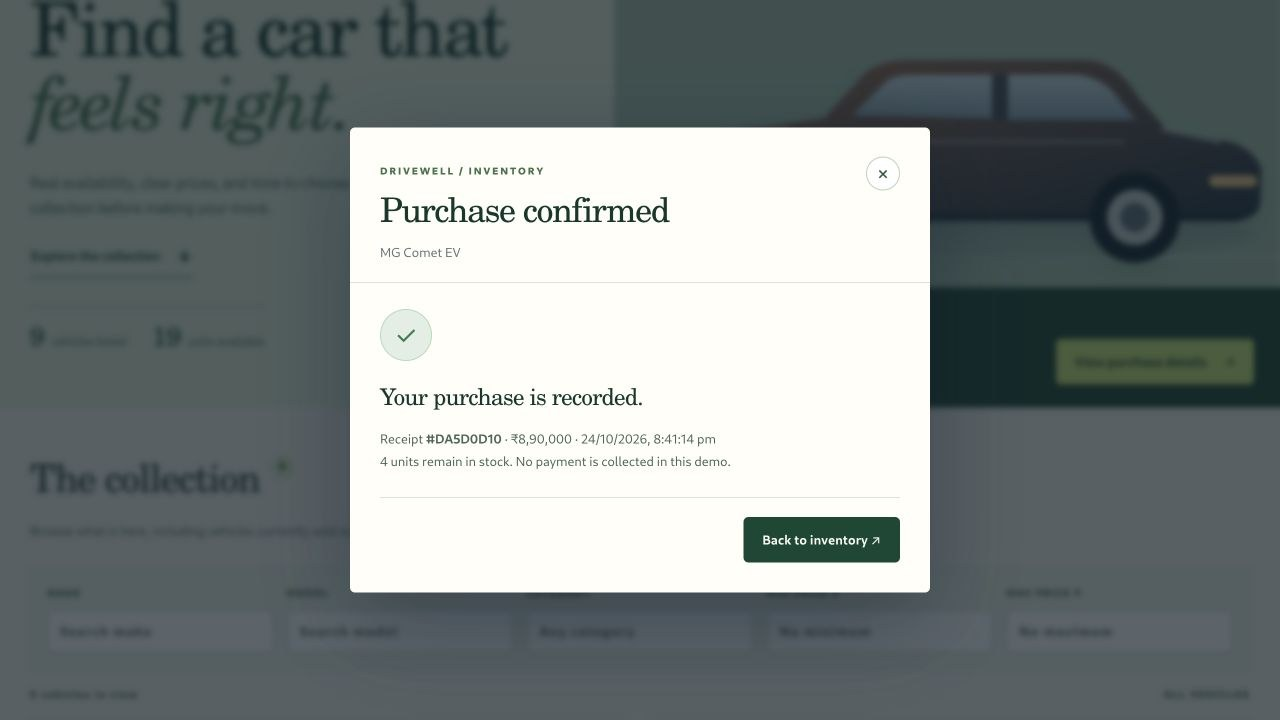
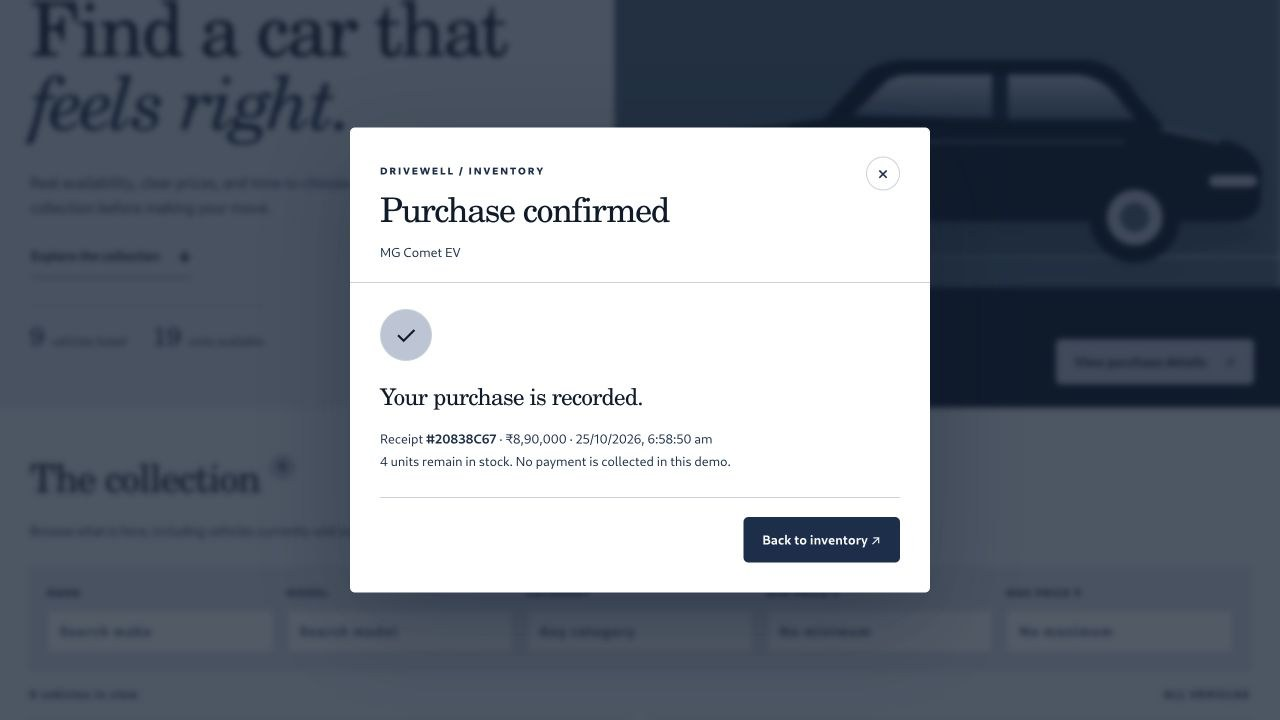
feat(ui): apply midnight blue palette and edge-aligned header
Move the Drivewell mark and account controls to opposite edges.
Apply the supplied four-color palette across both roles and dialogs.
Refresh browser screenshots and the design record.

diff --git a/src/palette.css b/src/palette.css
@@ -1,0 +1,127 @@
+/* The reference palette: Midnight #1C2E4A, Dusty #52677D,
+   Ivory #BDC4D4, and Deep Navy #0F1A2B. White only lifts reading surfaces. */
+:root {
+  --midnight-blue: #1c2e4a;
+  --dusty-blue: #52677d;
+  --ivory: #bdc4d4;
+  --deep-navy: #0f1a2b;
+  --paper: color-mix(in srgb, var(--ivory) 27%, white);
+  --soft-blue: color-mix(in srgb, var(--ivory) 48%, white);
+  --line: color-mix(in srgb, var(--dusty-blue) 30%, white);
+  --ink: var(--deep-navy);
+  --muted: var(--midnight-blue);
+  --white: #fff;
+  --orange: var(--ivory);
+  color: var(--ink);
+  background: var(--paper);
+}
+
+::selection { background: var(--ivory); color: var(--deep-navy); }
+.app-shell { background: var(--paper); }
+.header-inner { max-width: none; width: 100%; padding-inline: clamp(18px, 2.5vw, 40px); }
+.site-header, .site-footer { background: var(--deep-navy); color: white; }
+.site-header .brand, .site-header .brand-period { color: white; }
+.nav-active, .logout-button, .user-text small, .site-footer > span, .site-footer small { color: var(--ivory); }
+.nav-active:after { background: var(--ivory); }
+.nav-divider { border-color: var(--dusty-blue); }
+.user-avatar { background: var(--ivory); color: var(--deep-navy); }
+.logout-button:hover { color: white; }
+
+.button-primary { background: var(--midnight-blue); color: white; }
+.button-primary:not(:disabled):hover { background: var(--deep-navy); }
+.button-outline { border-color: var(--dusty-blue); color: var(--deep-navy); }
+.button-outline:hover { border-color: var(--midnight-blue); background: var(--soft-blue); }
+.button-quiet { background: var(--soft-blue); color: var(--deep-navy); }
+.button-danger { background: var(--deep-navy); color: white; }
+.button-danger:hover { background: var(--midnight-blue); }
+.button:focus-visible, a:focus-visible, input:focus-visible, .row-text-action:focus-visible,
+.logout-button:focus-visible, .attention-item button:focus-visible {
+  outline: 3px solid var(--dusty-blue);
+  outline-offset: 3px;
+}
+input { background: white; color: var(--deep-navy); border-color: var(--line); }
+input::placeholder { color: var(--dusty-blue); }
+input:focus { border-color: var(--dusty-blue); box-shadow: 0 0 0 3px color-mix(in srgb, var(--dusty-blue) 30%, transparent); }
+label, .muted, .form-hint { color: var(--midnight-blue); }
+.eyebrow, .clear-button { color: var(--midnight-blue); }
+.form-error { color: var(--deep-navy); background: var(--soft-blue); border-color: var(--dusty-blue); border-left-width: 4px; }
+.notice { color: var(--deep-navy); background: var(--soft-blue); border-color: var(--line); }
+
+.auth-shell, .auth-story { background: var(--ivory); color: var(--deep-navy); }
+.auth-story:before { color: var(--dusty-blue); opacity: .17; }
+.auth-story .brand-light, .auth-story .brand-period, .auth-story .accent-dot { color: var(--deep-navy); }
+.auth-story-content p, .auth-story-footer { color: var(--midnight-blue); }
+.auth-panel { background: var(--deep-navy); color: white; }
+.auth-panel h2, .auth-panel .muted, .auth-form label { color: white; }
+.auth-tabs, .auth-footnote { border-color: var(--dusty-blue); }
+.auth-tabs button, .auth-footnote { color: var(--ivory); }
+.auth-tabs button.active { color: white; }
+.auth-tabs button.active:after { background: var(--ivory); }
+.auth-form input { background: white; }
+.auth-submit { background: var(--ivory); color: var(--deep-navy); }
+.auth-submit:not(:disabled):hover { background: white; }
+
+.workspace-hero { background: var(--midnight-blue); color: white; }
+.workspace-copy p { color: var(--ivory); }
+.workspace-copy .hero-link { color: white; border-color: var(--ivory); }
+.workspace-scoreboard { background: var(--ivory); color: var(--deep-navy); }
+.scoreboard-live i { background: var(--midnight-blue); }
+.workspace-scoreboard > p, .workspace-scoreboard dt { color: var(--midnight-blue); }
+.workspace-scoreboard dl > div { border-color: var(--dusty-blue); }
+
+.showroom-copy { background: var(--soft-blue); color: var(--deep-navy); }
+.showroom-copy h1 em, .showroom-copy p, .showroom-facts, .showroom-facts strong { color: var(--midnight-blue); }
+.showroom-copy .hero-link { color: var(--deep-navy); border-color: var(--dusty-blue); }
+.showroom-facts { border-color: var(--ivory); }
+.showroom-feature { background: var(--deep-navy); color: white; }
+.feature-art .vehicle-art { background: var(--dusty-blue); }
+.feature-bottom > div > span, .feature-bottom strong, .feature-empty p { color: var(--ivory); }
+.feature-bottom .button { background: var(--ivory); color: var(--deep-navy); }
+.feature-bottom .button:hover { background: white; }
+
+.inventory-heading h2, .attention-intro h2, .empty-state h3 { color: var(--deep-navy); }
+.inventory-heading p, .filters label, .result-line, .empty-state p { color: var(--midnight-blue); }
+.heading-count { background: var(--ivory); color: var(--deep-navy); }
+.filters { background: var(--soft-blue); border-color: var(--line); }
+.empty-state { background: white; border-color: var(--line); }
+.attention-section { background: var(--ivory); border-color: var(--line); }
+.attention-intro p, .attention-item small, .attention-item button { color: var(--midnight-blue); }
+.attention-list, .attention-item + .attention-item { border-color: var(--dusty-blue); }
+.attention-quantity { background: var(--midnight-blue); color: white; }
+
+.inventory-table { background: white; border-color: var(--midnight-blue); }
+.inventory-table-head { background: var(--soft-blue); color: var(--midnight-blue); }
+.inventory-row { border-color: var(--line); }
+.inventory-row:hover { background: var(--soft-blue); }
+.row-monogram { background: var(--ivory); color: var(--deep-navy); }
+.inventory-row-name small, .inventory-row-category, .inventory-row-stock,
+.inventory-row-stock.is-low, .inventory-row-stock.is-empty, .inventory-row-price,
+.row-text-action, .row-delete { color: var(--midnight-blue); }
+
+.buyer-shell .vehicle-card { background: white; border-color: var(--line); }
+.buyer-shell .vehicle-card:hover { box-shadow: 0 18px 34px color-mix(in srgb, var(--deep-navy) 18%, transparent); }
+.buyer-shell .vehicle-art { border-color: var(--line); }
+.vehicle-art, .vehicle-art-suv, .vehicle-art-mpv, .vehicle-art-compact { background: var(--soft-blue); border-color: var(--line); }
+.vehicle-art:before { border-color: white; }
+.card-meta, .buyer-shell .vehicle-card h3 span, .card-price span { color: var(--midnight-blue); }
+.card-price, .admin-card-actions { border-color: var(--line); }
+.buyer-shell .card-price strong { color: var(--deep-navy); }
+.buyer-shell .stock-pill { color: var(--deep-navy); background: var(--ivory); }
+.buyer-shell .stock-pill.low-stock { color: var(--deep-navy); background: var(--soft-blue); outline: 1px solid var(--dusty-blue); }
+.buyer-shell .stock-pill.sold-out { color: white; background: var(--dusty-blue); }
+.buyer-shell .purchase-button:disabled { background: var(--ivory); color: var(--deep-navy); }
+
+.modal { background: white; color: var(--deep-navy); }
+.modal-backdrop { background: color-mix(in srgb, var(--deep-navy) 72%, transparent); }
+.modal-header, .modal-actions, .history-list li { border-color: var(--line); }
+.modal-header .eyebrow, .dialog-content > p:not(.dialog-lead), .icon-button,
+.history-list small { color: var(--midnight-blue); }
+.icon-button { border-color: var(--line); }
+.success-emblem, .history-symbol { background: var(--ivory); color: var(--deep-navy); border-color: var(--line); }
+.history-symbol.negative { background: var(--dusty-blue); color: white; }
+
+@media (max-width: 690px) {
+  .header-inner { padding-inline: 18px; }
+  .site-header .brand { color: white; }
+  .buyer-shell .vehicle-art { border-color: var(--line); }
+}

diff --git a/src/App.tsx b/src/App.tsx
@@ -34,7 +34,7 @@ function Logo({ light = false }: { light?: boolean }) {
 }
 
 function VehicleArt({ vehicle, large = false }: { vehicle: Vehicle; large?: boolean }) {
-  const colors = ['#476a80', '#a8755a', '#718472', '#6b688f', '#b99153', '#51626c'];
+  const colors = ['#52677d', '#1c2e4a', '#52677d', '#0f1a2b'];
   const index = [...vehicle.model].reduce((sum, character) => sum + character.charCodeAt(0), 0) % colors.length;
   const color = colors[index];
   const category = vehicle.category.toLowerCase();
@@ -56,19 +56,19 @@ function VehicleArt({ vehicle, large = false }: { vehicle: Vehicle; large?: bool
     <div className="art-orbit art-orbit-one" /><div className="art-orbit art-orbit-two" />
     <svg viewBox="0 0 520 235" role="presentation">
       <defs>
-        <linearGradient id={`body-${artId}`} x1="0" x2="1" y1="0" y2="1"><stop stopColor={color} /><stop offset="1" stopColor="#263646" /></linearGradient>
-        <linearGradient id={`glass-${artId}`} x1="0" x2="0" y1="0" y2="1"><stop stopColor="#d3e2e9" /><stop offset="1" stopColor="#8ea7b5" /></linearGradient>
+        <linearGradient id={`body-${artId}`} x1="0" x2="1" y1="0" y2="1"><stop stopColor={color} /><stop offset="1" stopColor="#0f1a2b" /></linearGradient>
+        <linearGradient id={`glass-${artId}`} x1="0" x2="0" y1="0" y2="1"><stop stopColor="#bdc4d4" /><stop offset="1" stopColor="#52677d" /></linearGradient>
       </defs>
-      <ellipse cx="262" cy="199" rx="210" ry="18" fill="#66757d" opacity=".14" />
+      <ellipse cx="262" cy="199" rx="210" ry="18" fill="#0f1a2b" opacity=".14" />
       <path d={bodies[shape]} fill={`url(#body-${artId})`} />
       <path d={windows[shape]} fill={`url(#glass-${artId})`} />
-      <path d={shape === 'compact' ? 'M291 89 L302 89 L302 120 L291 120Z' : shape === 'suv' ? 'M288 77 L299 77 L299 117 L288 117Z' : 'M294 79 L305 79 L305 117 L294 117Z'} fill="#344a59" opacity=".7" />
-      <path d="M99 136 L151 127 M407 126 L448 135" fill="none" stroke="#d5e0df" strokeWidth="4" opacity=".45" />
-      <path d="M72 164 L106 164 M444 162 L469 162" stroke="#f2cf8b" strokeWidth="8" strokeLinecap="round" />
-      <path d="M75 187 L461 187" stroke="#1b2936" strokeWidth="6" opacity=".6" />
-      <circle cx="151" cy="187" r="31" fill="#1d2932" /><circle cx="151" cy="187" r="19" fill="#c6cdd0" /><circle cx="151" cy="187" r="10" fill="#63727b" />
-      <circle cx="389" cy="187" r="31" fill="#1d2932" /><circle cx="389" cy="187" r="19" fill="#c6cdd0" /><circle cx="389" cy="187" r="10" fill="#63727b" />
-      <path d="M167 135 L382 135" stroke="#e8eded" strokeWidth="2" opacity=".45" />
+      <path d={shape === 'compact' ? 'M291 89 L302 89 L302 120 L291 120Z' : shape === 'suv' ? 'M288 77 L299 77 L299 117 L288 117Z' : 'M294 79 L305 79 L305 117 L294 117Z'} fill="#1c2e4a" opacity=".7" />
+      <path d="M99 136 L151 127 M407 126 L448 135" fill="none" stroke="#bdc4d4" strokeWidth="4" opacity=".45" />
+      <path d="M72 164 L106 164 M444 162 L469 162" stroke="#bdc4d4" strokeWidth="8" strokeLinecap="round" />
+      <path d="M75 187 L461 187" stroke="#0f1a2b" strokeWidth="6" opacity=".6" />
+      <circle cx="151" cy="187" r="31" fill="#0f1a2b" /><circle cx="151" cy="187" r="19" fill="#bdc4d4" /><circle cx="151" cy="187" r="10" fill="#52677d" />
+      <circle cx="389" cy="187" r="31" fill="#0f1a2b" /><circle cx="389" cy="187" r="19" fill="#bdc4d4" /><circle cx="389" cy="187" r="10" fill="#52677d" />
+      <path d="M167 135 L382 135" stroke="#bdc4d4" strokeWidth="2" opacity=".45" />
     </svg>
     <span className="art-caption">{vehicle.category.toUpperCase()} / DRIVEWELL</span>
   </div>;

diff --git a/src/main.tsx b/src/main.tsx
@@ -3,6 +3,7 @@ import ReactDOM from 'react-dom/client';
 import App from './App';
 import './styles.css';
 import './redesign.css';
+import './palette.css';
 
 ReactDOM.createRoot(document.getElementById('root')!).render(
   <React.StrictMode><App /></React.StrictMode>,

diff --git a/PROMPTS.md b/PROMPTS.md
@@ -255,3 +255,39 @@ The buyer collection now has a clearly different layout from the admin workspace
 The refreshed screens and receipt are saved. The redesign is now reflected in the README; I’m running the project checks and a final privacy audit before committing it.
 ~~~
 
+## Header and palette follow-up — 2026-10-25
+
+The user supplied two images with the following verbatim text. Image contents and tool outputs are omitted.
+
+### User
+
+~~~text
+Ok so 2 things:
+1)as you can see in the image, move the things circled in red in the top to the far right and left respectively
+2)use the following color palette, replace it with the current one (see color pallete image)
+~~~
+
+### Assistant
+
+~~~text
+I’ll move the header logo and account controls to the outer edges, then replace the green and lime theme with the four colors in your palette. I’ll check both admin and buyer screens after the change.
+~~~
+
+### Assistant
+
+~~~text
+The four swatches give us a clear scheme: deep navy and midnight blue for the main surfaces, dusty blue for secondary areas, and the light “Ivory” swatch for highlights. I’m applying it across forms, stock states, and dialogs as well as the header, so the old accents don’t linger.
+~~~
+
+### Assistant
+
+~~~text
+The admin screen now uses the supplied blue palette, and the header groups sit near opposite edges of the window. I’m checking the buyer screen and replacing the old screenshots so the README shows the current design.
+~~~
+
+### Assistant
+
+~~~text
+Both screens look consistent with the new palette. The buyer cards, sold-out state, and receipt also render clearly, and the screenshots are refreshed. I’m updating the design notes and running the final checks.
+~~~
+

diff --git a/TEST_REPORT.md b/TEST_REPORT.md
@@ -18,6 +18,8 @@ The suite checks buyer registration and login, configured admin password changes
 
 Manual browser checks covered admin sign-in, make filtering, restocking, the receipt flow, and a disabled purchase button for zero stock. The October 24 redesign was reviewed in the browser with a disposable demo database: the new sign-in, admin stock desk and restock queue, buyer showroom and horizontal cards, a make filter narrowing nine vehicles to one sold-out listing, and a purchase receipt that reduced the demo vehicle's stock from five to four. The refreshed screenshots in `docs/screenshots/` show these rendered desktop states. The browser review did not include a narrow viewport; responsive layout rules were reviewed in the stylesheets. The API suite (10/10) and TypeScript/production build passed again after the redesign.
 
+On **25 October 2026**, the header alignment and four-color blue palette were checked in the browser with a separate disposable database. Admin and buyer overviews, inventory rows, vehicle cards, the sold-out state, and a demo receipt were inspected. Screenshots were refreshed. The API suite passed 10/10; the TypeScript check and production build also passed after this visual change.
+
 Reproduce the report with:
 
 ```bash

diff --git a/README.md b/README.md
@@ -106,6 +106,7 @@ The stock history and guarded final-unit purchase are deliberately practical add
 
 ### Design choices
 
+- The header places the Drivewell mark near the left edge and account controls near the right edge, leaving the center clear at wide widths. The palette follows the supplied Midnight Blue (`#1C2E4A`), Dusty Blue (`#52677D`), Ivory (`#BDC4D4`), and Deep Navy (`#0F1A2B`) reference; white is used only to lift reading surfaces and text.
 - The buyer showroom and admin stock desk have different layouts because their jobs are different. Buyers see a featured car with the lowest in-stock price and browse horizontal vehicle cards. Admins get a compact stock ledger, live totals, and a restock queue for cars with zero or one unit left.
 - Search remains available in both views. Sold-out listings stay visible to buyers with the purchase action disabled; admins can restock, edit, trace stock history, or remove a listing from the ledger.
 - Category-based illustrations give the collection character without implying that they are photos of the exact listed cars. Stock counts and prices remain text rather than information carried only by color or decoration.
